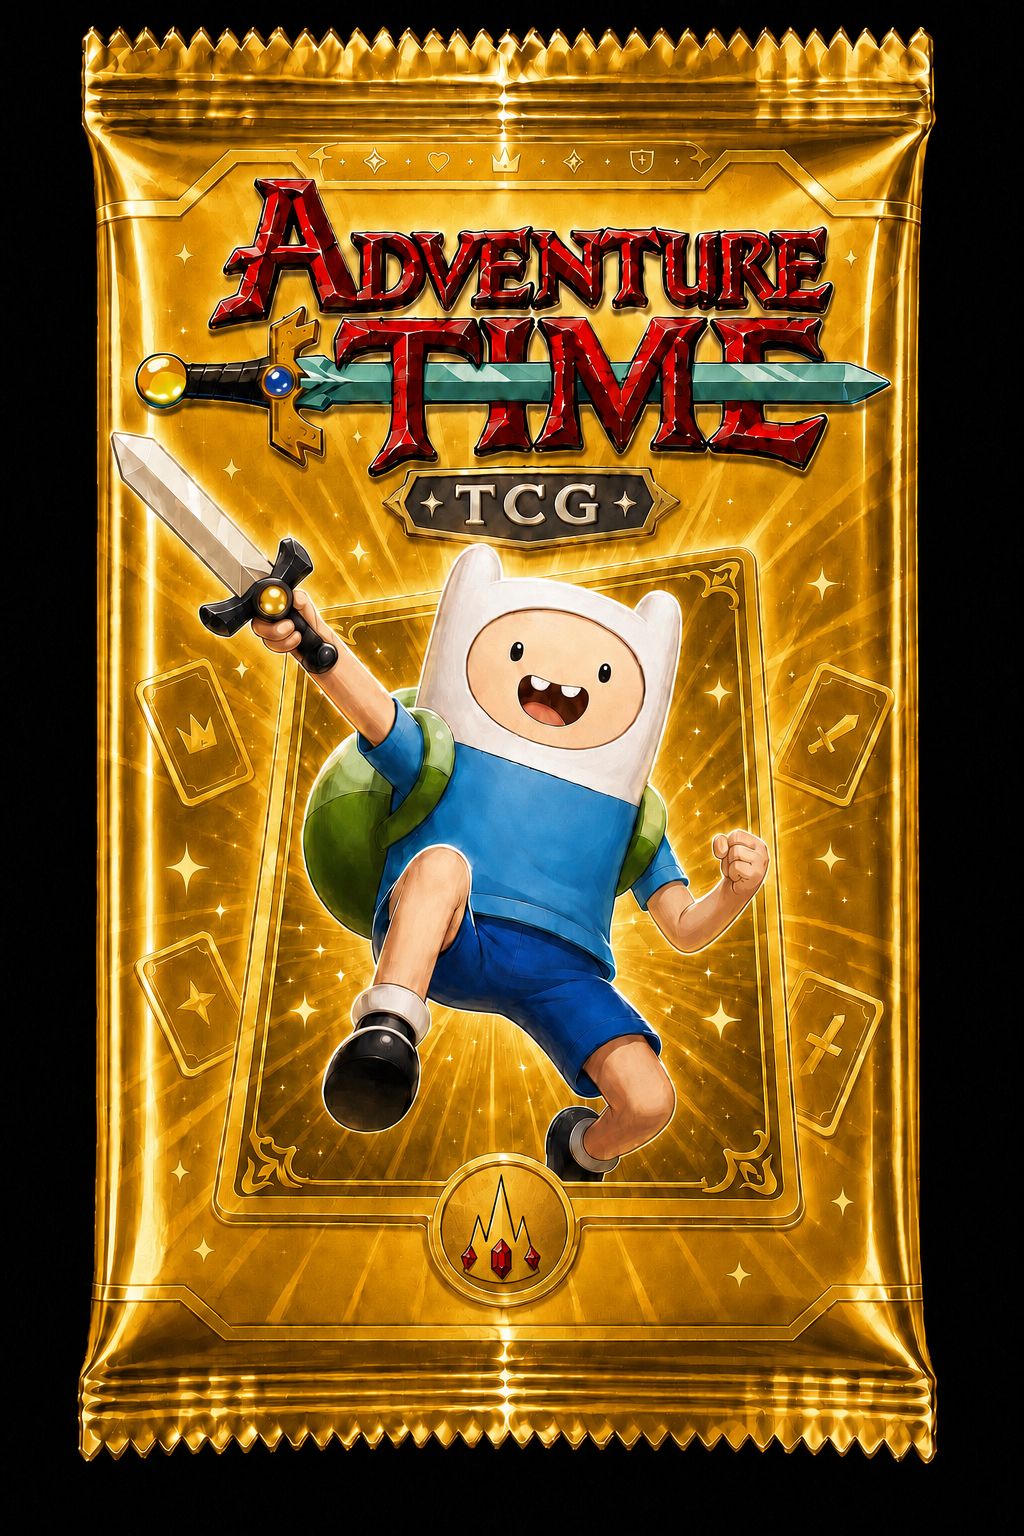
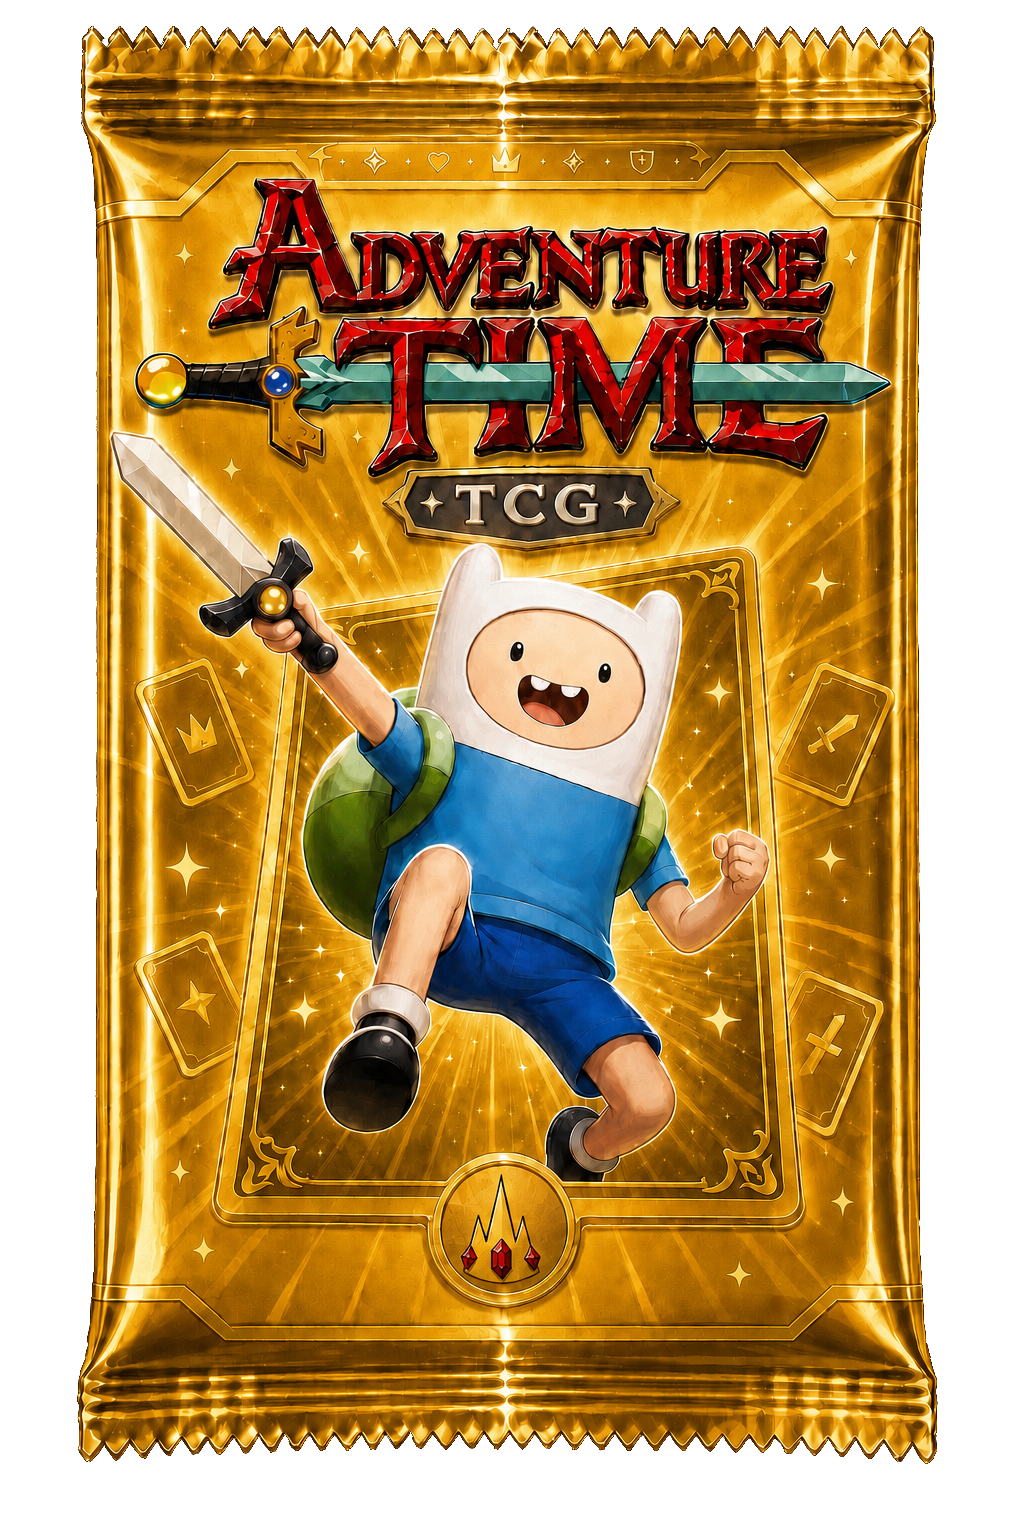
refine(mobile): remove pack opening backdrops

Changed region(s): [[0.0, 0.0, 1.0, 1.0]]

diff --git a/apps/mobile/app/(tabs)/packs.tsx b/apps/mobile/app/(tabs)/packs.tsx
@@ -538,8 +538,6 @@ function PackPreviewCard({
   sheenAnim?: Animated.Value;
 }) {
   const height = width / PACK_CARD_RATIO;
-  const accentColor = pack.color || tc.primary;
-  const packSurfaceColor = pack.color || tc.surfaceMuted;
   const packArtSource = getPackOpeningArtSource({
     guaranteedRarity: pack.guaranteedRarity,
     name: pack.name,
@@ -595,21 +593,18 @@ function PackPreviewCard({
       style={{
         width,
         height,
-        borderRadius: compact ? 24 : 32,
-        overflow: "hidden",
-        borderWidth: compact ? 1.5 : 2,
-        borderColor: withAlpha(accentColor, compact ? "52" : "66"),
-        backgroundColor: packSurfaceColor,
+        overflow: "visible",
+        backgroundColor: "transparent",
         boxShadow: compact
-          ? `0 18px 38px ${withAlpha("#000000", "52")}`
-          : `0 22px 55px ${withAlpha("#000000", "72")}`,
+          ? `0 18px 32px ${withAlpha("#000000", "30")}`
+          : `0 22px 46px ${withAlpha("#000000", "40")}`,
         transform: animatedTransforms,
       }}
     >
       <Image
         source={packArtSource}
         style={{ width: "100%", height: "100%" }}
-        contentFit="cover"
+        contentFit="contain"
         transition={0}
       />
       {sheenAnim ? (

diff --git a/apps/mobile/src/components/pack-opening-sequence-dom.tsx b/apps/mobile/src/components/pack-opening-sequence-dom.tsx
@@ -191,16 +191,11 @@ const CSS = `
     position: relative;
     width: 230px;
     height: 330px;
-    border-radius: 18px;
-    overflow: hidden;
+    overflow: visible;
     box-shadow:
-      0 0 0 5px #2a1407,
-      0 0 0 9px var(--pack-border),
-      0 18px 38px rgba(0, 0, 0, .62),
-      0 0 24px rgba(var(--pack-rgb), .28);
+      0 18px 42px rgba(0, 0, 0, .4);
     animation: pack-card-idle 2.6s ease-in-out infinite;
-    background:
-      linear-gradient(140deg, var(--pack-soft) 0%, var(--pack-base) 16%, var(--pack-deep) 34%, var(--pack-dark) 72%, var(--pack-bright) 100%);
+    background: transparent;
   }
 
   .pack-opening-card::after {
@@ -221,15 +216,14 @@ const CSS = `
     position: absolute;
     inset: 0;
     z-index: 8;
-    border-radius: 18px;
-    overflow: hidden;
+    overflow: visible;
   }
 
   .pack-opening-pack-art {
     width: 100%;
     height: 100%;
     display: block;
-    object-fit: cover;
+    object-fit: contain;
   }
 
   .pack-opening-crack-layer {

diff --git a/apps/mobile/src/components/pack-opening-art.ts b/apps/mobile/src/components/pack-opening-art.ts
@@ -1,7 +1,7 @@
-import basicPackArt from "../../assets/pack-opening/basic-pack.jpeg";
-import epicPackArt from "../../assets/pack-opening/epic-pack.jpeg";
+import basicPackArt from "../../assets/pack-opening/basic-pack.png";
+import epicPackArt from "../../assets/pack-opening/epic-pack.png";
 import legendaryPackArt from "../../assets/pack-opening/legendary-pack.png";
-import premiumPackArt from "../../assets/pack-opening/premium-pack.jpeg";
+import premiumPackArt from "../../assets/pack-opening/premium-pack.png";
 import standardPackArt from "../../assets/pack-opening/standard-pack.png";
 
 import {
